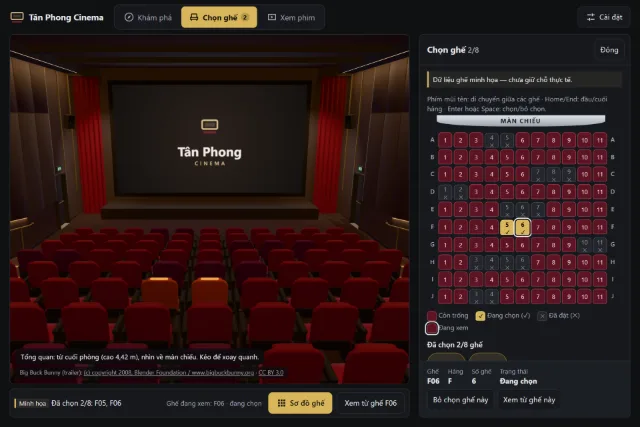
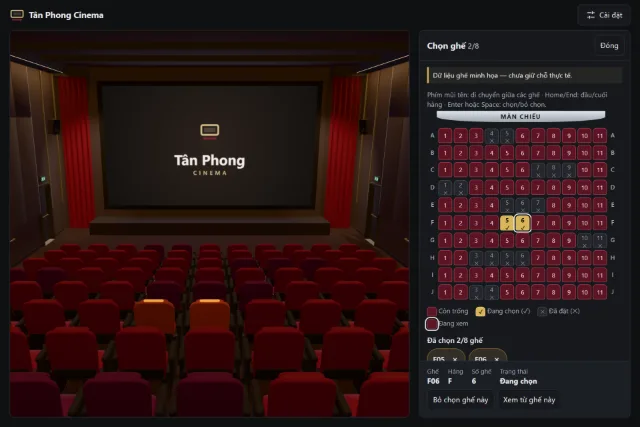
chore: re-shoot landing steps 2-3 and update QA capture for the "Cài đặt" layout
- Landing: step 2 and 3 pictures re-rendered with the new layout (seat map
  opened from "Cài đặt"; the player in the panel); step 3 alt text follows.
- capture-brand-assets: steps 2-3 go through "Cài đặt"; BRAND_ONLY renders
  only the named pictures.
- capture-views: controls are reached through the control panel on every
  screen; keyboard, layout, flow and hub checks rewritten for the panel;
  checks for the removed corner credit dropped (490 passed, 0 failed).
- taskLayout: opening the map always stops the tour and walking, also when
  the task was already Chọn ghế (no task switch is left to do it).

diff --git a/src/cinema/taskLayout.test.ts b/src/cinema/taskLayout.test.ts
@@ -101,4 +101,13 @@ describe('task layout', () => {
     const watch = run(explore, [{ type: 'task', task: 'watch' }], false);
     expect(reduceTaskLayout(watch, { type: 'task', task: 'seats' }, false).stopExploreActivities).toBe(false);
   });
+
+  it('stops the tour and walking whenever the map opens, also after it was closed in Chọn ghế', () => {
+    const closedInSeats = run(initialTaskLayout(), [{ type: 'panel', open: true }, { type: 'panel', open: false }], false);
+    expect(closedInSeats.task).toBe('seats');
+    expect(reduceTaskLayout(closedInSeats, { type: 'panel', open: true }, false).stopExploreActivities).toBe(true);
+    // Already open: nothing to stop.
+    const open = run(initialTaskLayout(), [{ type: 'panel', open: true }], false);
+    expect(reduceTaskLayout(open, { type: 'panel', open: true }, false).stopExploreActivities).toBe(false);
+  });
 });

diff --git a/src/cinema/taskLayout.ts b/src/cinema/taskLayout.ts
@@ -85,7 +85,9 @@ export function reduceTaskLayout(state: TaskLayout, event: TaskLayoutEvent, layo
     }
     case 'panel':
       if (event.open) {
-        const left = state.task === 'explore';
+        // The map takes the keys: opening it stops the tour and walking, also when walking was
+        // started (from the control panel) while the task was still Chọn ghế.
+        const left = state.task === 'explore' || state.panel === 'closed';
         return result({ task: 'seats', panel: state.panel === 'expanded' ? 'expanded' : shown, panelChoice: true }, left);
       }
       return result({ panel: 'closed', panelChoice: state.task === 'seats' ? false : state.panelChoice });

diff --git a/src/landing/content.ts b/src/landing/content.ts
@@ -36,7 +36,7 @@ const STEPS = [
   {
     title: 'Phát video trên màn chiếu',
     text: 'Mở “Cài đặt” (trên điện thoại là nút tròn) và bấm Phát ở mục Phim và âm thanh. Video không tự chạy; bạn tạm dừng, tua và tắt tiếng lúc nào cũng được.',
-    alt: 'Màn chiếu nhìn từ một ghế giữa phòng, trình phát ở phía dưới.',
+    alt: 'Màn chiếu nhìn từ một ghế giữa phòng, bảng Cài đặt mở ở mục Phim và âm thanh.',
   },
 ];
 
